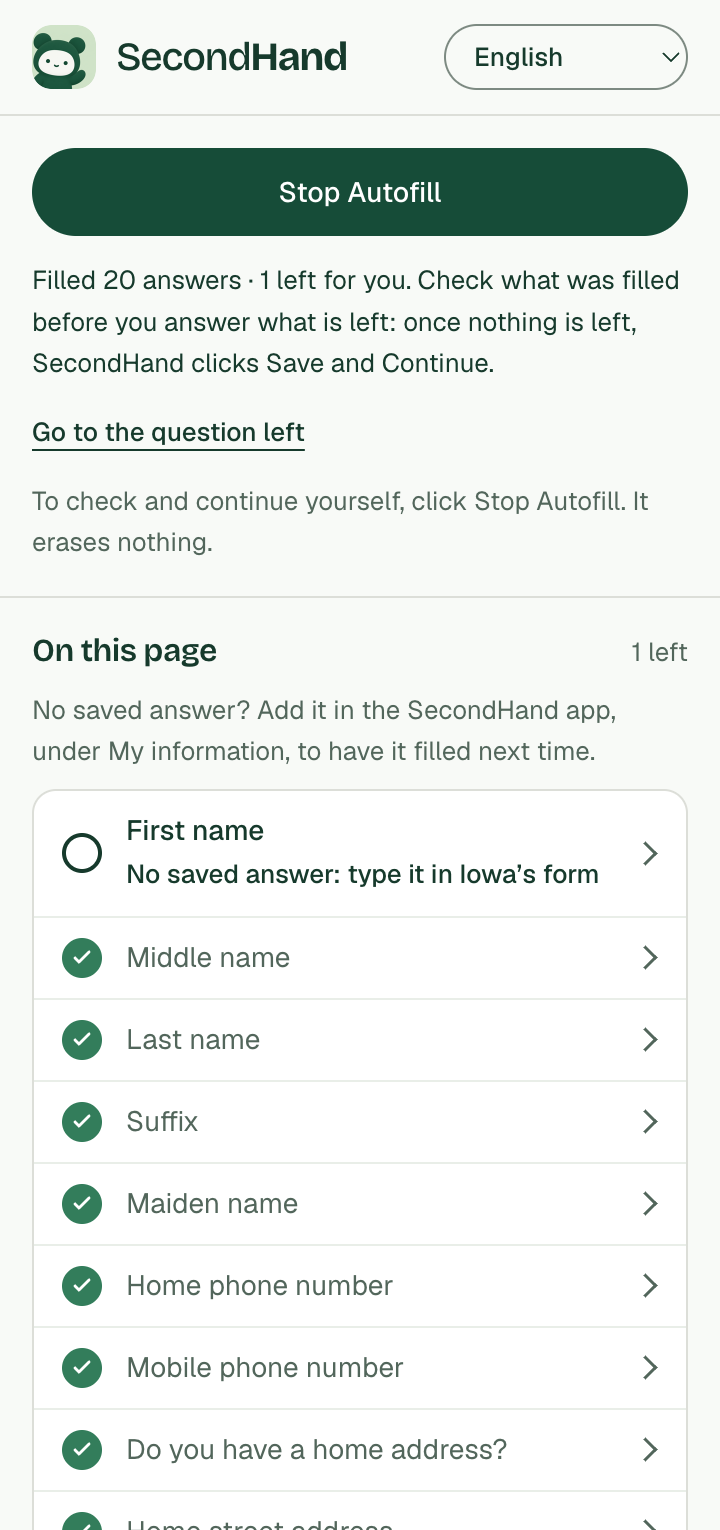
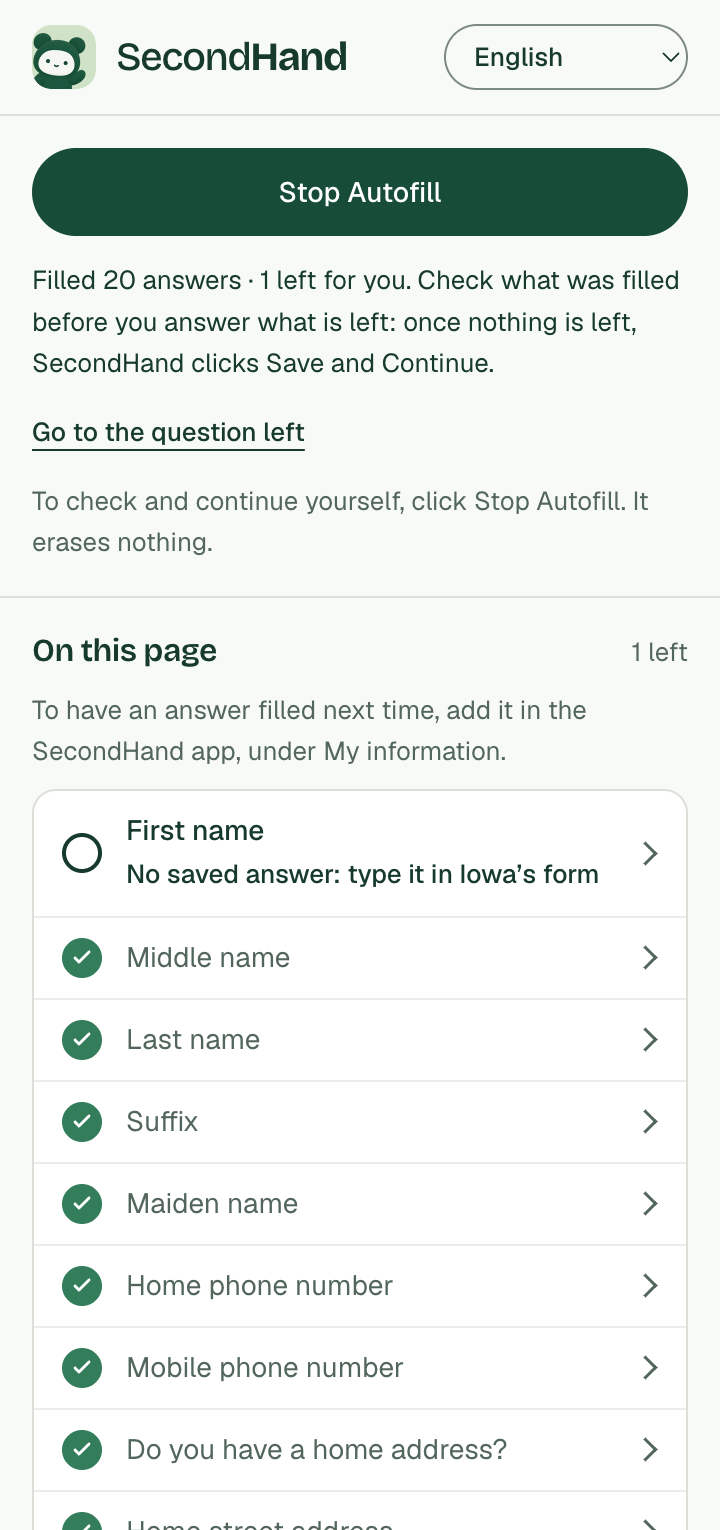
fix: say "No saved answer" once on the side panel's checklist
The note above the checklist began "No saved answer?" right above a row that says
"No saved answer: type it in Iowa's form". The note now says only what to do:
"To have an answer filled next time, add it in the SecondHand app, under My
information."

Changed region(s): [[0.0306, 0.4608, 0.8556, 0.5222]]

diff --git a/extension/strings.js b/extension/strings.js
@@ -242,7 +242,7 @@
     'checklist.manual': 'Do it yourself',
     'checklist.notSaved': 'No saved answer: type it in Iowa’s form',
     'checklist.notSavedOptional': 'Optional, no saved answer',
-    'checklist.notSavedNote': 'No saved answer? Add it in the SecondHand app, under My information, to have it filled next time.',
+    'checklist.notSavedNote': 'To have an answer filled next time, add it in the SecondHand app, under My information.',
     'checklist.pending': 'Not filled yet',
     'checklist.left': { one: '{count} left', other: '{count} left' },
     'checklist.noneLeft': 'Nothing left for you',
@@ -740,7 +740,7 @@
     'checklist.manual': 'Hágalo usted',
     'checklist.notSaved': 'Sin respuesta guardada: escríbala en el formulario de Iowa',
     'checklist.notSavedOptional': 'Opcional, sin respuesta guardada',
-    'checklist.notSavedNote': '¿Sin respuesta guardada? Agréguela en la aplicación SecondHand, en “My information”, para que se llene la próxima vez.',
+    'checklist.notSavedNote': 'Para que una respuesta se llene la próxima vez, agréguela en la aplicación SecondHand, en “My information”.',
     'checklist.pending': 'Aún sin llenar',
     'checklist.left': { one: 'Falta {count}', other: 'Faltan {count}' },
     'checklist.noneLeft': 'No falta nada',
@@ -1235,7 +1235,7 @@
     'checklist.manual': 'Bạn tự làm',
     'checklist.notSaved': 'Chưa có câu trả lời đã lưu: hãy nhập vào biểu mẫu của Iowa',
     'checklist.notSavedOptional': 'Không bắt buộc, chưa có câu trả lời đã lưu',
-    'checklist.notSavedNote': 'Chưa có câu trả lời đã lưu? Hãy thêm trong ứng dụng SecondHand, ở mục “My information”, để lần sau được điền sẵn.',
+    'checklist.notSavedNote': 'Để lần sau câu trả lời được điền sẵn, hãy thêm trong ứng dụng SecondHand, ở mục “My information”.',
     'checklist.pending': 'Chưa điền',
     'checklist.left': { one: 'Còn {count} mục', other: 'Còn {count} mục' },
     'checklist.noneLeft': 'Không còn gì cần bạn',
@@ -1731,7 +1731,7 @@
     'checklist.manual': '请您自己填写',
     'checklist.notSaved': '没有保存的答案：请在爱荷华州的表格中填写',
     'checklist.notSavedOptional': '选填，没有保存的答案',
-    'checklist.notSavedNote': '没有保存的答案？请在 SecondHand 应用的“My information”中添加，下次即可自动填写。',
+    'checklist.notSavedNote': '要让答案下次自动填写，请在 SecondHand 应用的“My information”中添加。',
     'checklist.pending': '尚未填写',
     'checklist.left': { one: '还剩 {count} 项', other: '还剩 {count} 项' },
     'checklist.noneLeft': '没有需要您处理的',
@@ -2227,7 +2227,7 @@
     'checklist.manual': 'À faire vous-même',
     'checklist.notSaved': 'Pas de réponse enregistrée : saisissez-la dans le formulaire de l’Iowa',
     'checklist.notSavedOptional': 'Facultatif, pas de réponse enregistrée',
-    'checklist.notSavedNote': 'Pas de réponse enregistrée ? Ajoutez-la dans l’application SecondHand, sous « My information », pour qu’elle soit remplie la prochaine fois.',
+    'checklist.notSavedNote': 'Pour qu’une réponse soit remplie la prochaine fois, ajoutez-la dans l’application SecondHand, sous « My information ».',
     'checklist.pending': 'Pas encore rempli',
     'checklist.left': { one: '{count} à faire', other: '{count} à faire' },
     'checklist.noneLeft': 'Rien à faire',
@@ -2723,7 +2723,7 @@
     'checklist.manual': 'قم به بنفسك',
     'checklist.notSaved': 'لا توجد إجابة محفوظة: اكتبها في نموذج أيوا',
     'checklist.notSavedOptional': 'اختياري، لا توجد إجابة محفوظة',
-    'checklist.notSavedNote': 'لا توجد إجابة محفوظة؟ أضفها في تطبيق SecondHand ضمن “My information” لتُعبَّأ في المرة القادمة.',
+    'checklist.notSavedNote': 'لتُعبَّأ الإجابة في المرة القادمة، أضفها في تطبيق SecondHand ضمن “My information”.',
     'checklist.pending': 'لم تُعبَّأ بعد',
     'checklist.left': { one: 'المتبقي: {count}', other: 'المتبقي: {count}' },
     'checklist.noneLeft': 'لم يبقَ شيء',
